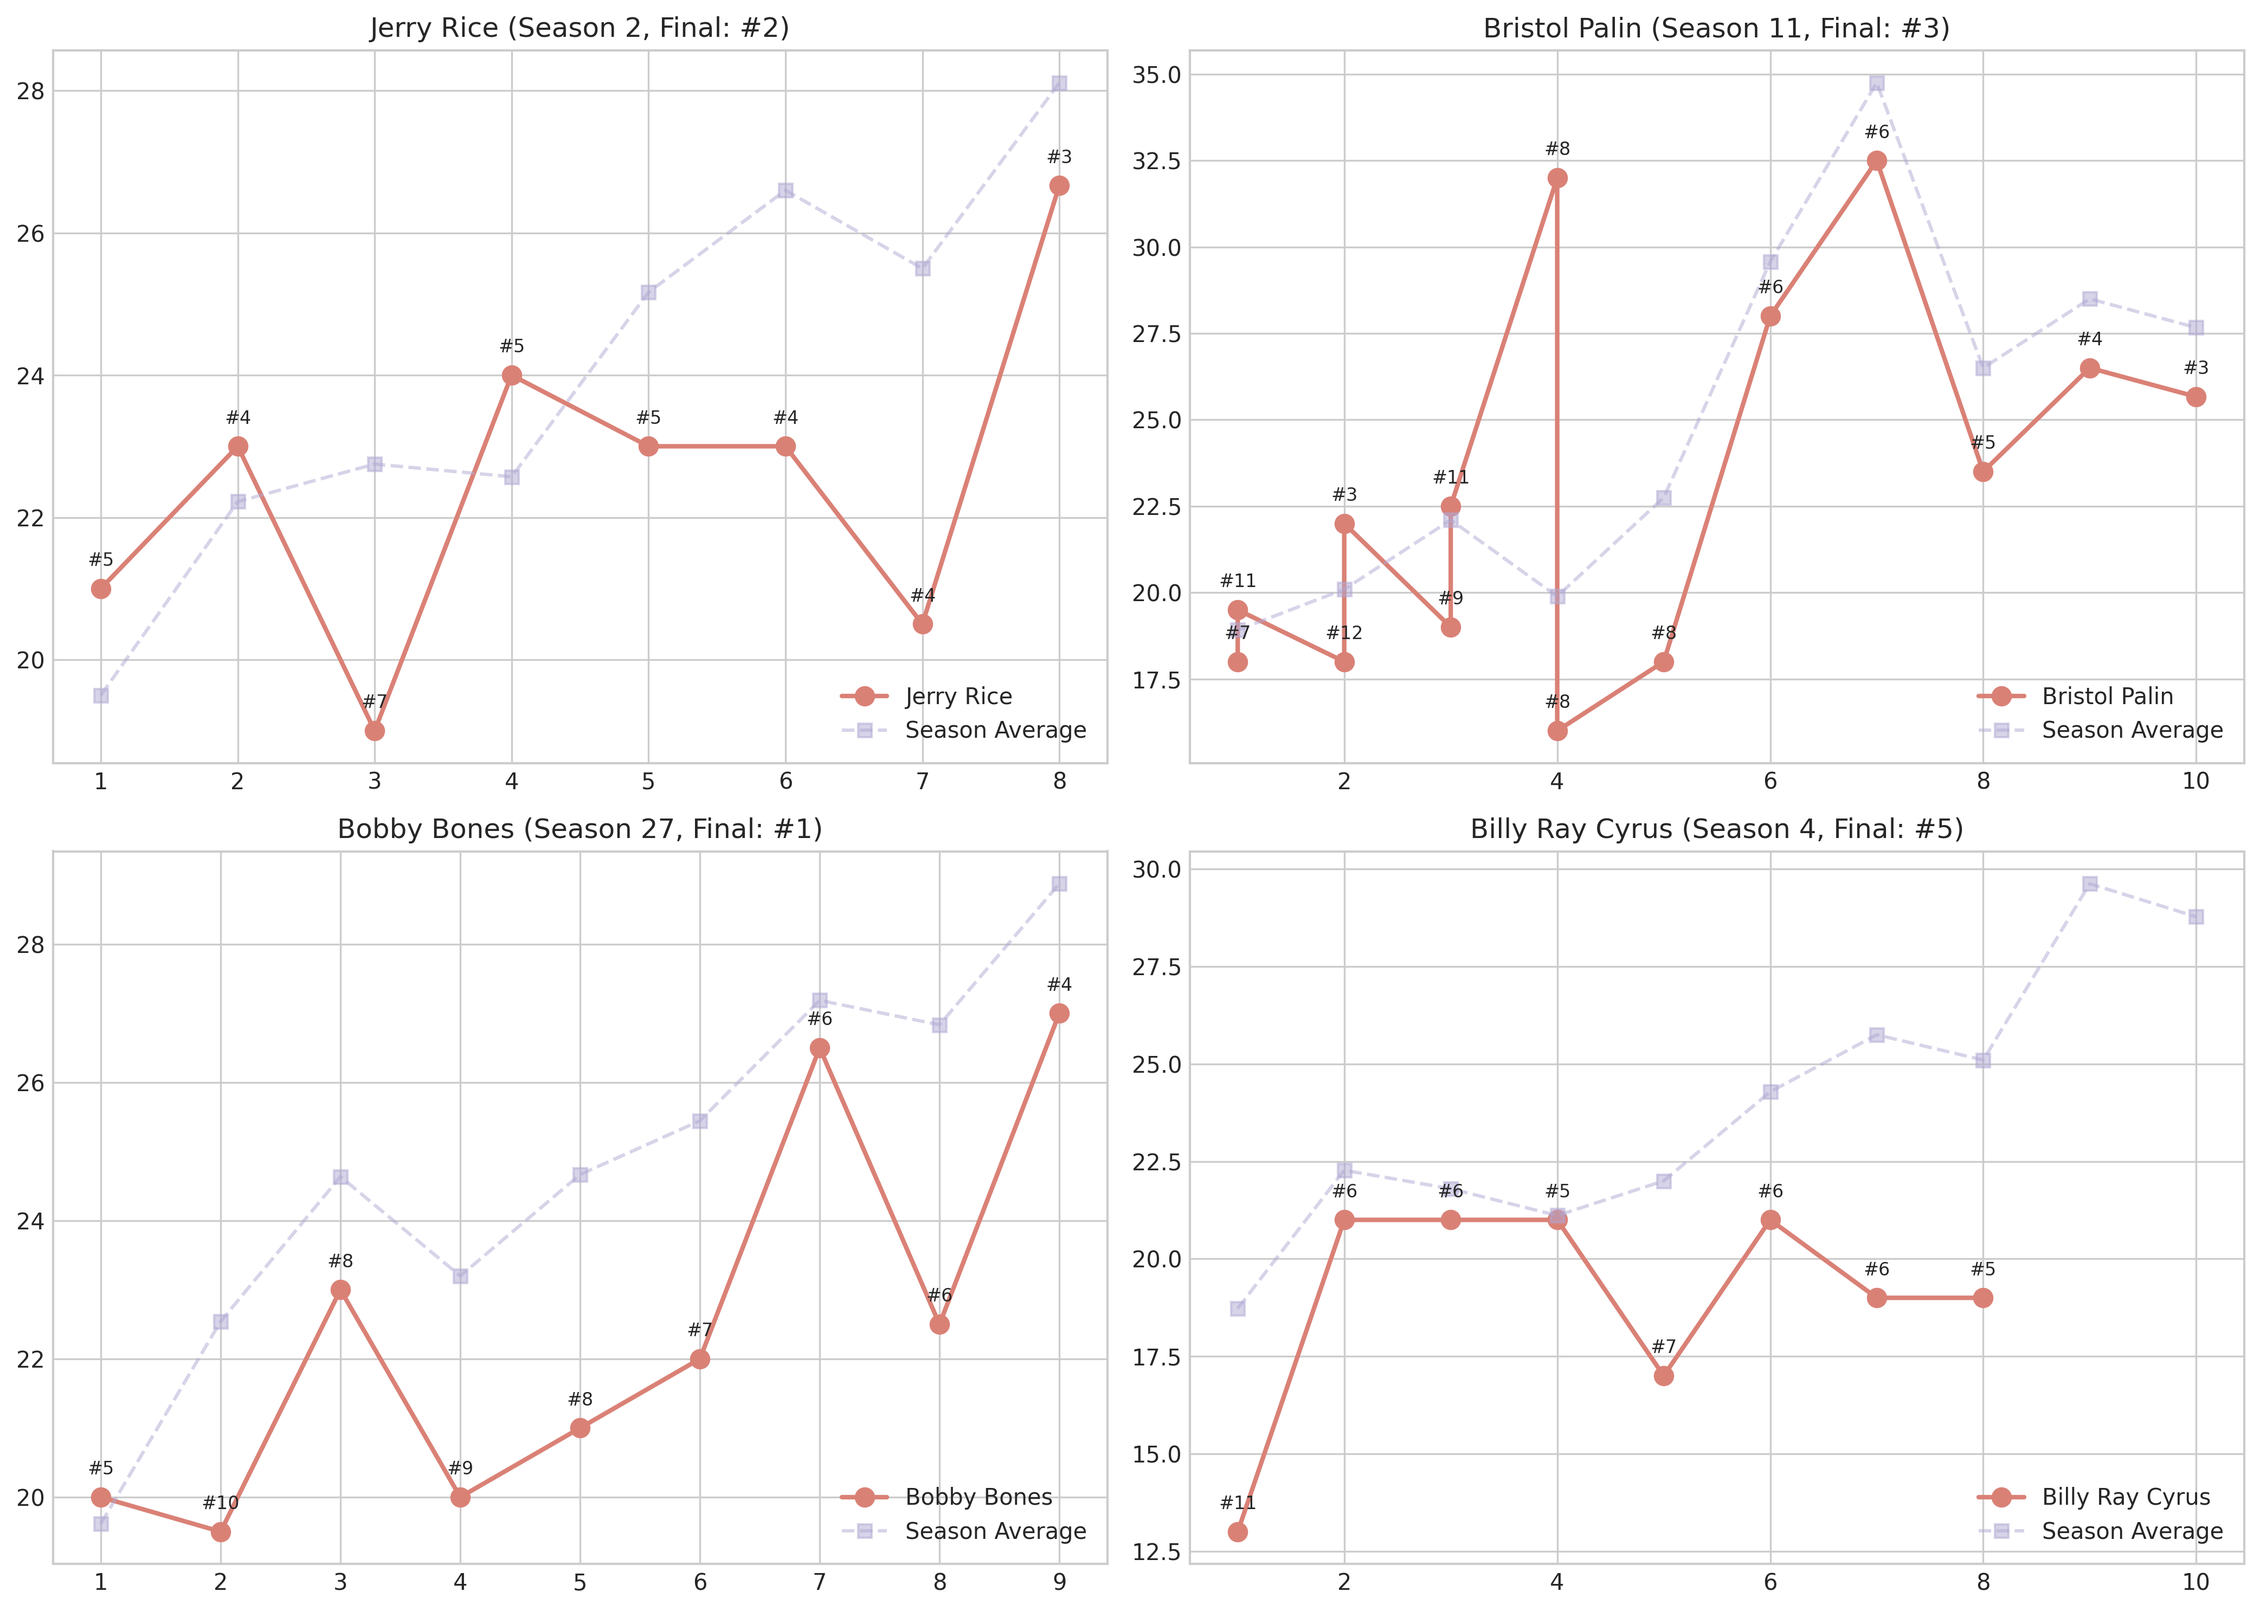
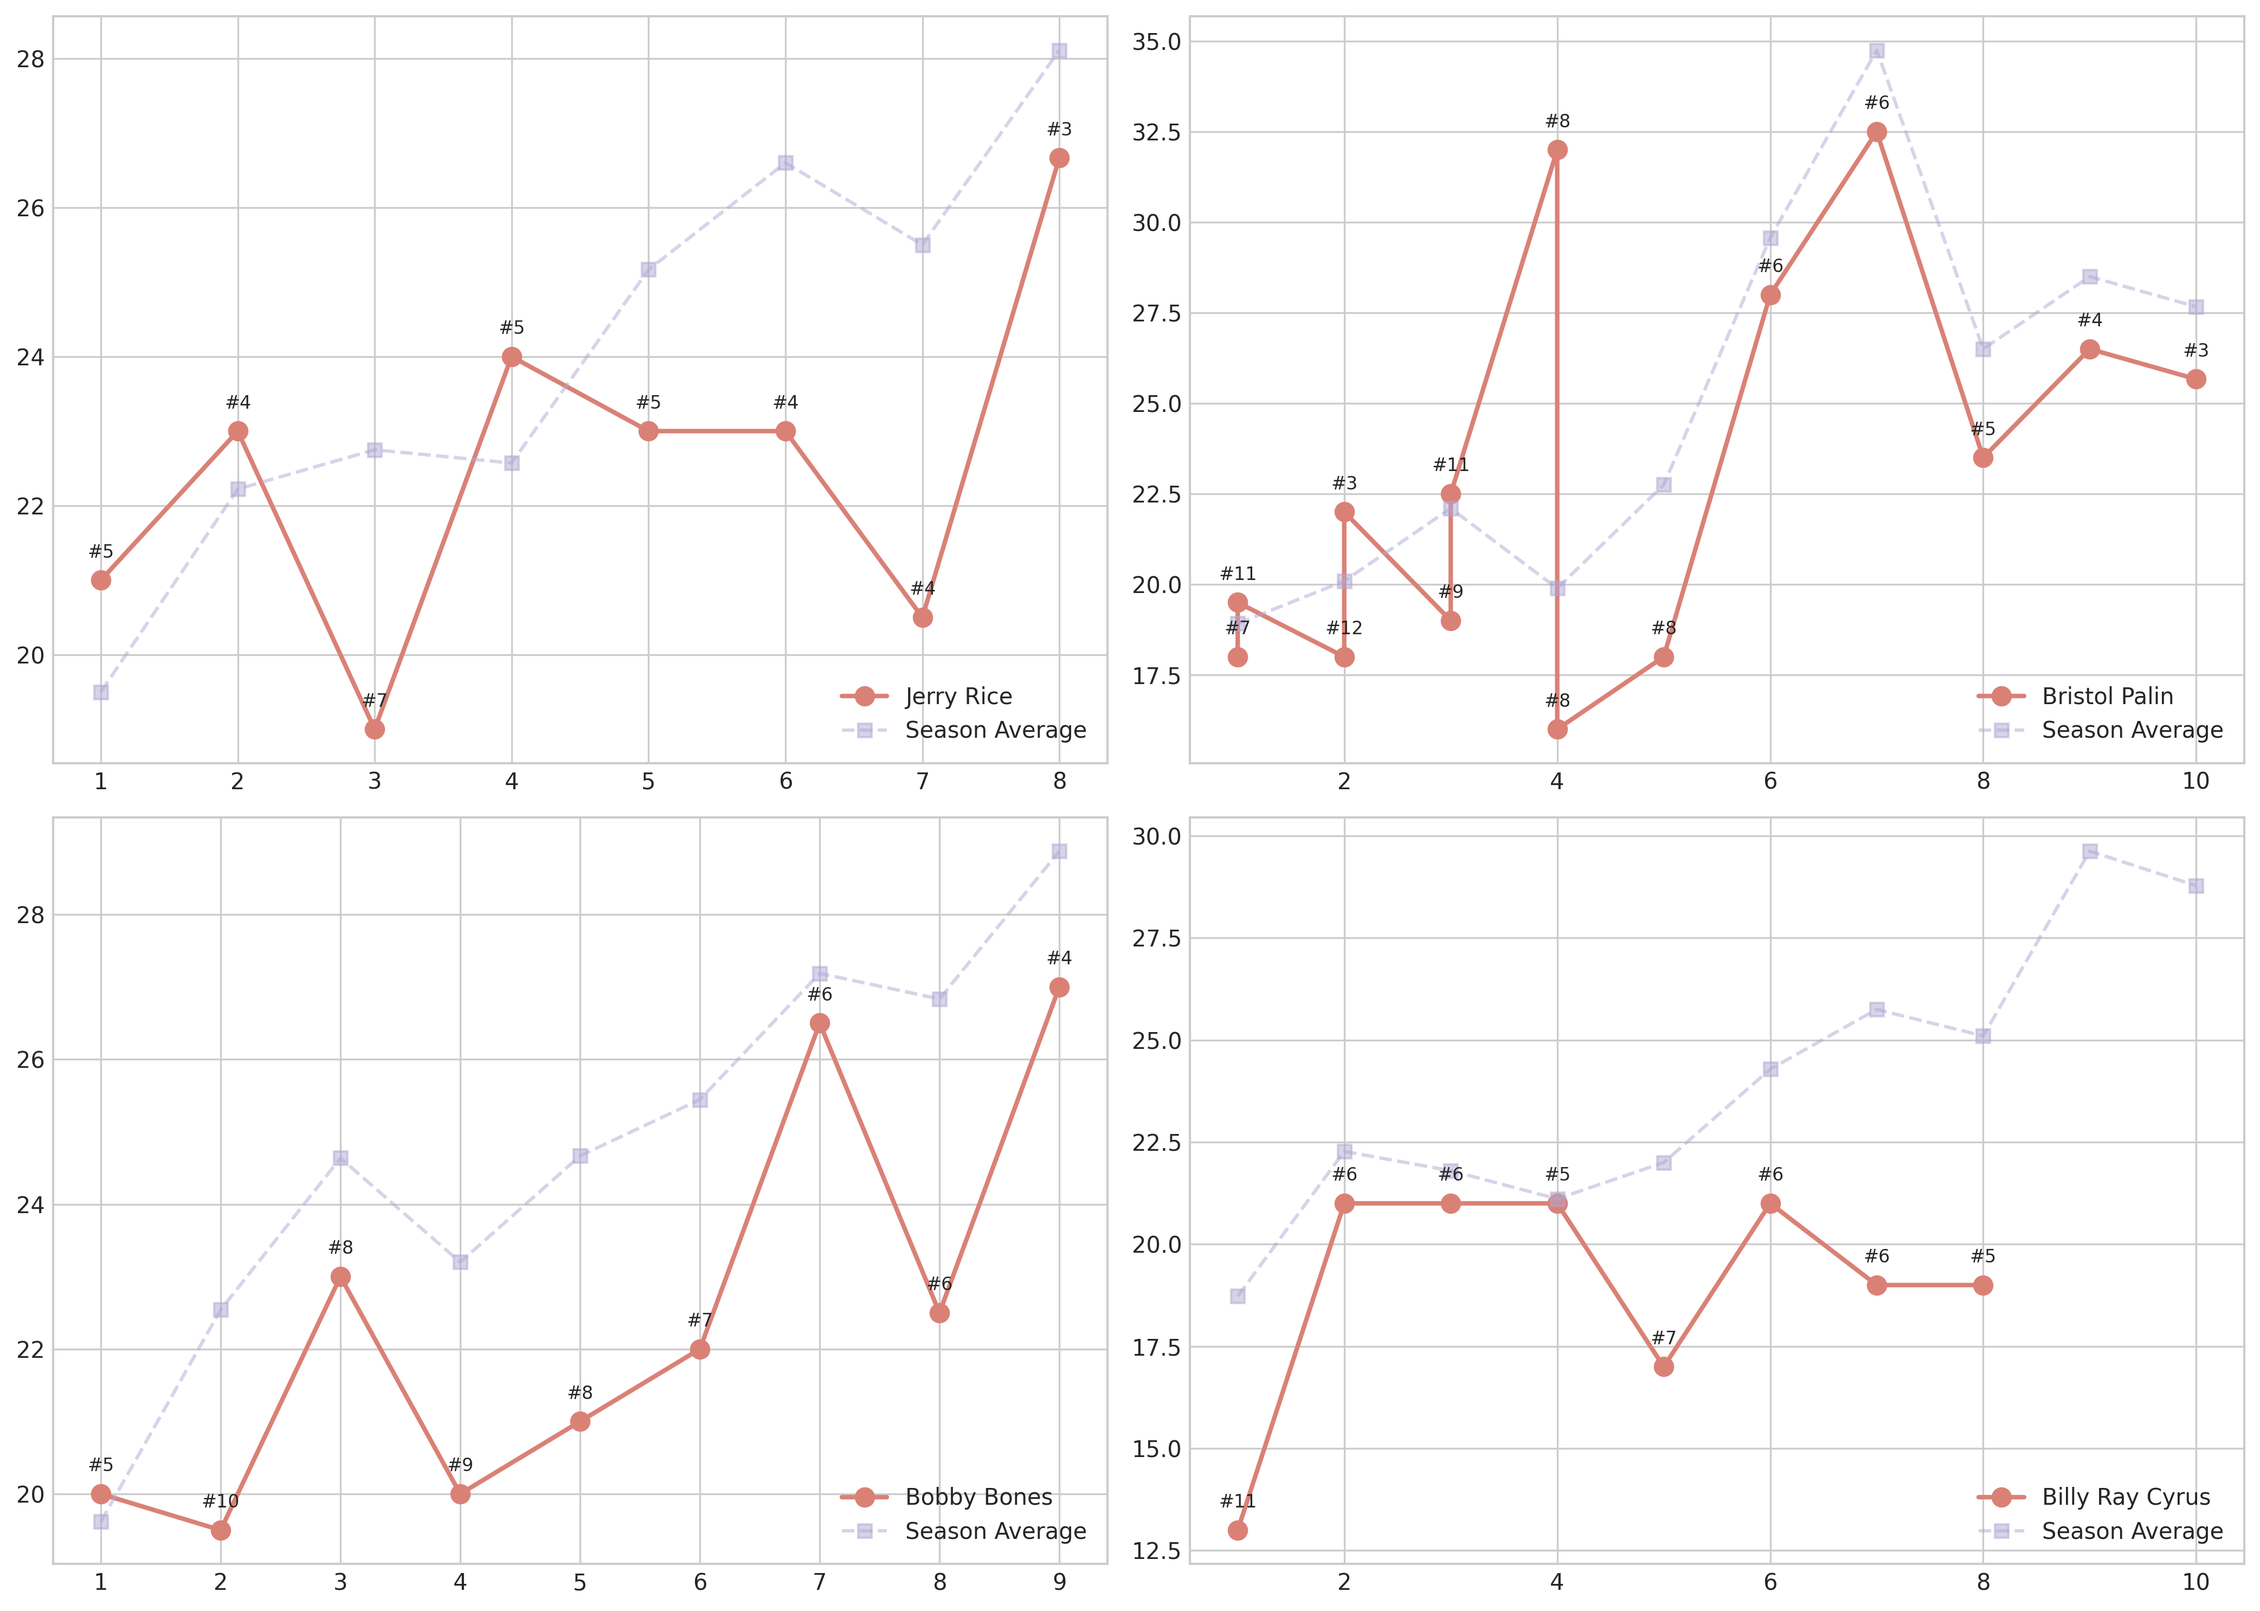
update data_visulization

diff --git a/data_loader/data_visualization.py b/data_loader/data_visualization.py
@@ -54,7 +54,6 @@ fig, ax = plt.subplots(figsize=(14, 8))
 custom_heatmap_cmap = LinearSegmentedColormap.from_list("dwts_theme", ["#BADDF3", "#7BADDF", "#B581B4", "#DA8176"])
 pivot_data = df_long.pivot_table(values='judge_total', index='season', columns='week', aggfunc='mean')
 sns.heatmap(pivot_data, cmap=custom_heatmap_cmap, ax=ax, linewidths=0.5, linecolor='white', cbar_kws={'label': 'Average Judge Total Score'})
-ax.set_title('Average Judge Total Score by Season and Week')
 plt.savefig('fig1_score_heatmap.png')
 plt.close()
 
@@ -74,7 +73,6 @@ for idx, name in enumerate(controversy_names):
     ax.plot(season_avg.index, season_avg.values, 's--', color=COLORS['neutral'], alpha=0.5, label='Season Average')
     for _, row in contestant_data.iterrows():
         ax.annotate(f"#{int(row['weekly_rank'])}", (row['week'], row['judge_total']), textcoords="offset points", xytext=(0,10), ha='center', fontsize=8)
-    ax.set_title(f'{name} (Season {season}, Final: #{int(placement)})')
     ax.legend(loc='lower right')
 plt.tight_layout()
 plt.savefig('fig2_controversy_analysis.png')
@@ -93,7 +91,6 @@ ax.barh(range(len(industry_stats)), industry_stats['placement'].values, color=co
 ax.set_yticks(range(len(industry_stats)))
 ax.set_yticklabels(industry_stats.index)
 ax.invert_yaxis()
-ax.set_title('(a) Average Placement by Industry (n≥5)')
 
 # (b) 年龄与排名
 ax = axes[0, 1]
@@ -104,7 +101,6 @@ ax.set_xticklabels(age_placement.index)
 z = np.polyfit(range(len(age_placement)), age_placement.values, 1)
 p = np.poly1d(z)
 ax.plot(range(len(age_placement)), p(range(len(age_placement))), color=COLORS['success'], linestyle='--', label='Trend')
-ax.set_title('(b) Average Placement by Age Group')
 
 # (c) 舞伴经验影响
 ax = axes[1, 0]
@@ -114,14 +110,12 @@ ax.scatter(exp_groups.index, exp_groups['placement'], s=exp_groups['count']*10, 
 z = np.polyfit(exp_groups.index, exp_groups['placement'], 1)
 p = np.poly1d(z)
 ax.plot(exp_groups.index, p(exp_groups.index), color=COLORS['accent'], linestyle='--')
-ax.set_title('(c) Partner Experience vs Placement')
 
 # (d) 不同名次选手的得分趋势
 ax = axes[1, 1]
 for place, color in zip([1, 2, 3], [COLORS['success'], COLORS['accent'], COLORS['primary']]):
     place_avg = df_long[df_long['placement'] == place].groupby('week')['judge_total'].mean()
     ax.plot(place_avg.index, place_avg.values, 'o-', color=color, label=f'Rank #{place}')
-ax.set_title('(d) Score Trajectory by Final Rank')
 ax.legend()
 
 # (e) 相关性热力图
@@ -130,13 +124,11 @@ numeric_cols = ['celebrity_age_during_season', 'placement', 'weeks_participated'
 corr_data = df[numeric_cols].dropna()
 corr_data.columns = ['Age', 'Place', 'Weeks', 'AvgSc', 'StdSc', 'PrtExp']
 sns.heatmap(corr_data.corr(), annot=True, fmt='.2f', cmap='RdBu_r', center=0, ax=ax, square=True, cbar=False)
-ax.set_title('(e) Correlation Matrix of Key Variables')
 
 # (f) 淘汰选手的平均分分布
 ax = axes[2, 1]
 elim_scores = df[df['elimination_week'] > 0].groupby('elimination_week')['avg_judge_total'].mean()
 ax.bar(elim_scores.index, elim_scores.values, color=COLORS['secondary'], alpha=0.8)
-ax.set_title('(f) Avg Score of Eliminated Contestants by Week')
 
 plt.tight_layout()
 plt.savefig('fig3_key_insights_summary.png')
